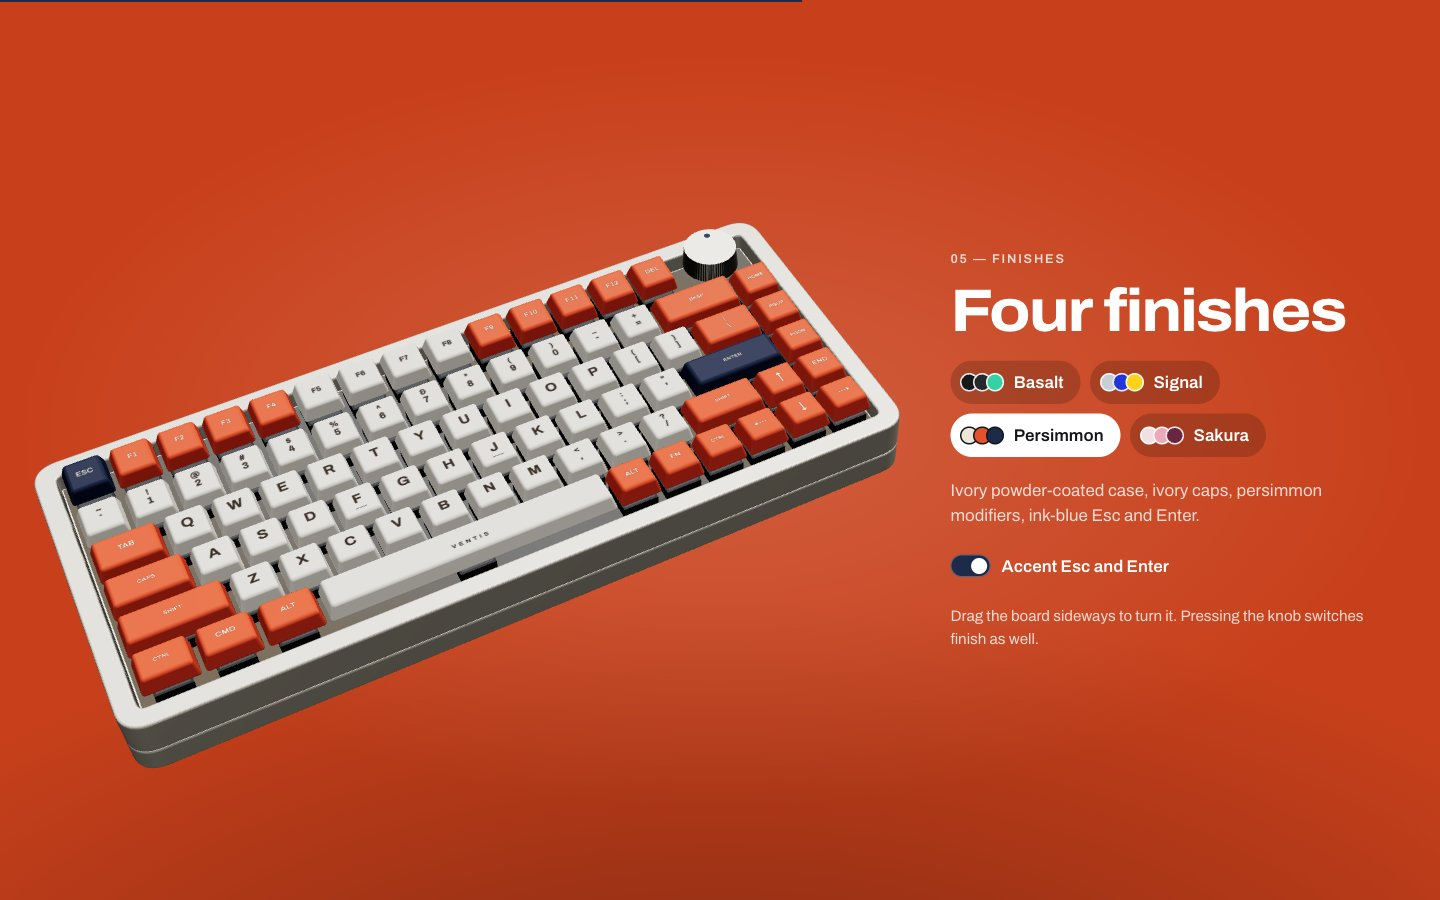
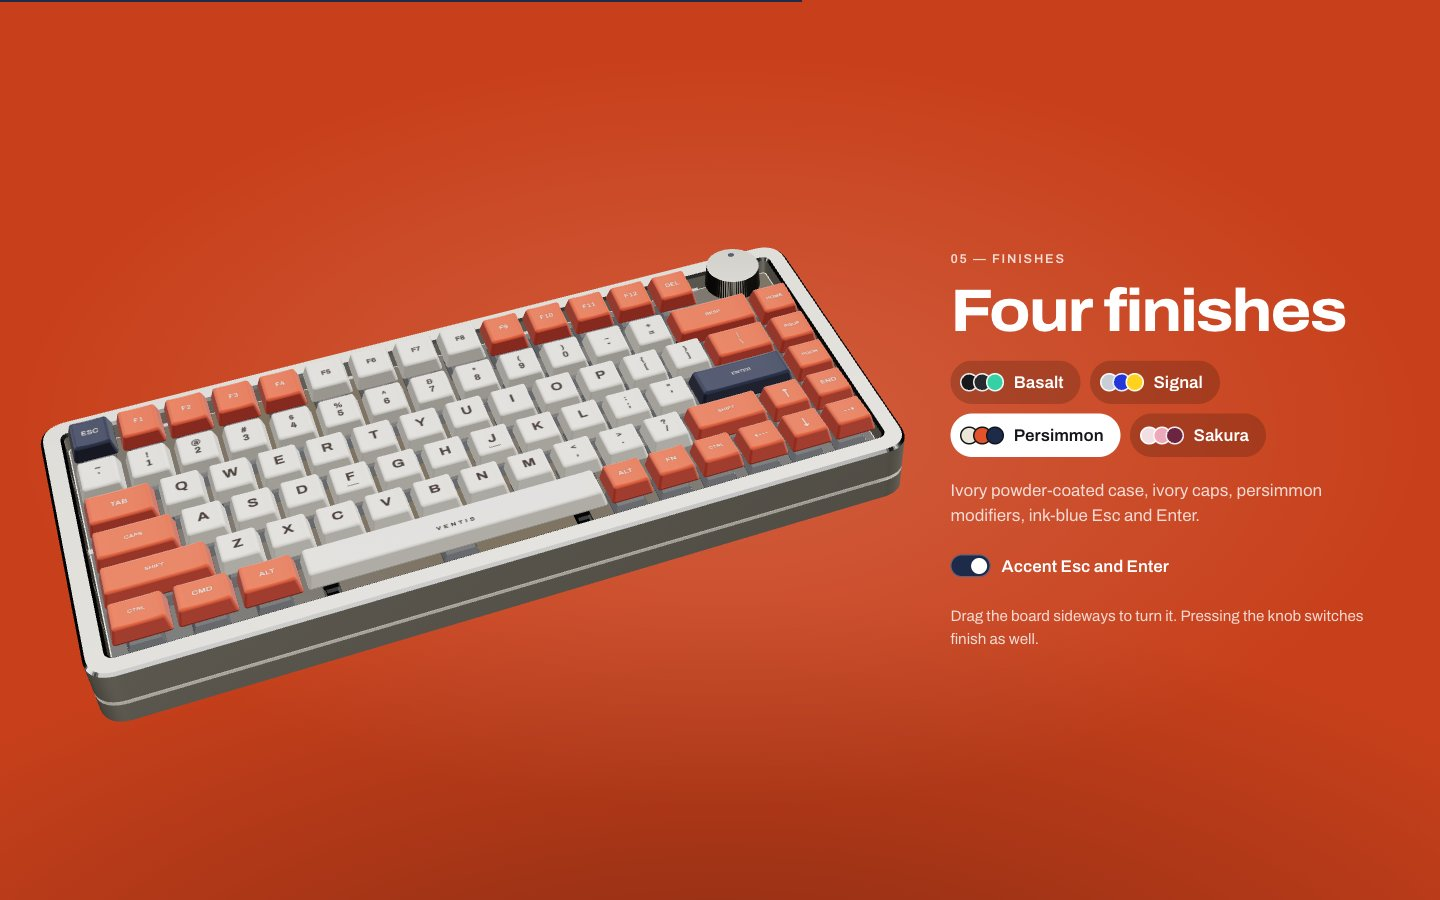
docs: refresh screenshots and project structure after refactor
Retake the README shots with the new keycap, switch, plate and PCB detail, describe the realistic parts, and list the new content, speed test, browser and texture modules.

Changed region(s): [[0.0, 0.2489, 0.625, 0.8711]]

diff --git a/README.md b/README.md
@@ -68,6 +68,7 @@ Motion respects `prefers-reduced-motion`: the load sequence, idle float, scroll 
 ## Behind the build
 
 - **No model files.** The board is built from code: 82 keycaps from one shared geometry, the case from rounded extrusions, the legends from a single canvas texture atlas. That keeps the download small and lets a finish change retint every material at once, with no second model to load.
+- **Real parts, drawn in code.** Keycaps have the cylindrical Cherry scoop and a grainy PBT finish, with legends that follow the scoop. Each switch has a dark lower housing, a smoked clear top, a cross stem and gold pins. The plate is cut with 82 switch holes and stabiliser slots and sits on ten gaskets. The circuit board texture is drawn to scale (traces, gold pads, a diode and silkscreen label per switch), and the case has a bead-blasted finish with a bright diamond-cut chamfer.
 - **One pose per section.** Each section names a camera pose (position, rotation, scale, explode amount). GSAP ScrollTrigger scrubs between them, and the render loop reads plain mutable objects instead of React state, so scrolling never re-renders the component tree.
 - **Real key sounds.** The first version synthesised every click and sounded fake. Each switch now plays one of eight real presses cut from CC0 recordings, never the same one twice in a row, with a small pitch and level jitter and an EQ that tames the close-miked highs. Safari keeps the MP3 encoder's leading silence, which put presses late, so the start of each file is measured on load and the slots are offset by it.
 - **Always something to see.** If WebGL is missing or the scene crashes, an SVG drawing of the same layout takes over and still follows the scroll and your typing.
@@ -78,17 +79,22 @@ Motion respects `prefers-reduced-motion`: the load sequence, idle float, scroll 
 | --- | --- |
 | `src/app/layout.tsx` | Root layout, metadata, font import |
 | `src/app/globals.css` | All styles, including the CSS animations and the responsive layout |
-| `src/components/Experience.tsx` | Page sections and copy, the GSAP load timeline, scroll reveals, scroll-scrubbed poses, physical keyboard input and typing stats |
+| `src/components/Experience.tsx` | Page sections, the GSAP load timeline, scroll reveals, scroll-scrubbed poses, physical keyboard input and typing stats |
 | `src/components/Scene.tsx` | Canvas, lights, the studio reflection map, adaptive resolution, the desk for the lifestyle shot and the pose rig (idle float, pointer parallax, drag-to-turn, responsive fit) |
 | `src/components/Loader.tsx` | The 000–100 loading screen and its curtain exit |
 | `src/components/Switches.tsx` | The force-curve chart and the switch picker |
 | `src/components/Fallback.tsx` | The flat SVG board shown when WebGL is unavailable |
+| `src/components/GLBoundary.tsx` | Catches a failing 3D scene so the page can switch to the fallback |
 | `src/app/not-found.tsx` | The 404 page, three keycaps on the studio backdrop |
 | `src/lib/site.ts` | Author name and the footer links (GitHub, portfolio); an empty link is hidden |
+| `src/lib/content.ts` | Page copy: parts list, specs, highlights, underside facts, speed-test sentences |
+| `src/lib/speedTest.ts` | Speed test scoring: new sentence, keystroke, words per minute and accuracy |
+| `src/lib/browser.ts` | Reduced-motion, touch and WebGL checks, and safe localStorage |
 | `src/app/opengraph-image.tsx` | The 1200 × 630 share image, generated at build time |
 | `src/components/keyboard/Keyboard.tsx` | The model: caps (with homing bars and the spacebar wordmark), switches, plate, PCB, case, USB-C port, weight, knob, the glow shader, the staggered explode and the layer lift |
 | `src/components/keyboard/layout.ts` | The 75% layout (82 keys) mapped to `KeyboardEvent.code`, colour groups and shifted sub-legends |
-| `src/components/keyboard/geometry.ts` | Keycap and case geometry, the legend texture atlas, knurl and engraving textures |
+| `src/components/keyboard/geometry.ts` | Scooped keycaps, chamfered case slabs, the plate with its cutouts, and the switch and stabiliser parts |
+| `src/components/keyboard/textures.ts` | Canvas textures: the legend atlas, PBT and bead-blast grain, brushed metal, the PCB artwork, knurl and engraving |
 | `src/lib/store.ts` | Section poses (`POSES`), colourways (`COLORWAYS`), switch types (`SWITCHES`), key press state, layer focus and the key `wave` helper |
 | `src/lib/sound.ts` | Key sounds: loads the recorded samples, plays a random press (and a lighter release) per key, falls back to a synthesised sound |
 | `public/sounds/*.mp3` | One sprite per switch: eight single presses, one every 250 ms |
@@ -101,10 +107,10 @@ Motion respects `prefers-reduced-motion`: the load sequence, idle float, scroll 
 - **Your own key sounds:** replace a file in `public/sounds/` with a mono MP3 of the same layout: single presses, each starting at the top of its own 250 ms slot (eight is a good number). `LEVEL` in `sound.ts` balances the volume between switches.
 - **Explode distances and timing:** `EXPLODE` and `STAGGER` in `Keyboard.tsx`. `FOCUS_LIFT` sets how far a hovered layer rises.
 - **Footer links:** fill in the `href` values in `src/lib/site.ts`.
-- **Speed test sentences:** `SENTENCES` in `Experience.tsx`.
+- **Speed test sentences:** `SENTENCES` in `src/lib/content.ts`.
 - **Share image URL:** set `NEXT_PUBLIC_SITE_URL` to the deployed address so link previews use absolute URLs (on Vercel the production URL is picked up automatically).
 - **Idle float:** the `float` and `sway` amplitudes in `Scene.tsx`.
-- **Parts list:** `LAYERS` in `Experience.tsx`. Keep its order in step with `FOCUS_LIFT`.
+- **Parts list:** `LAYERS` in `src/lib/content.ts`. Keep its order in step with `FOCUS_LIFT` in `Keyboard.tsx`.
 
 ## Sound credits
 
